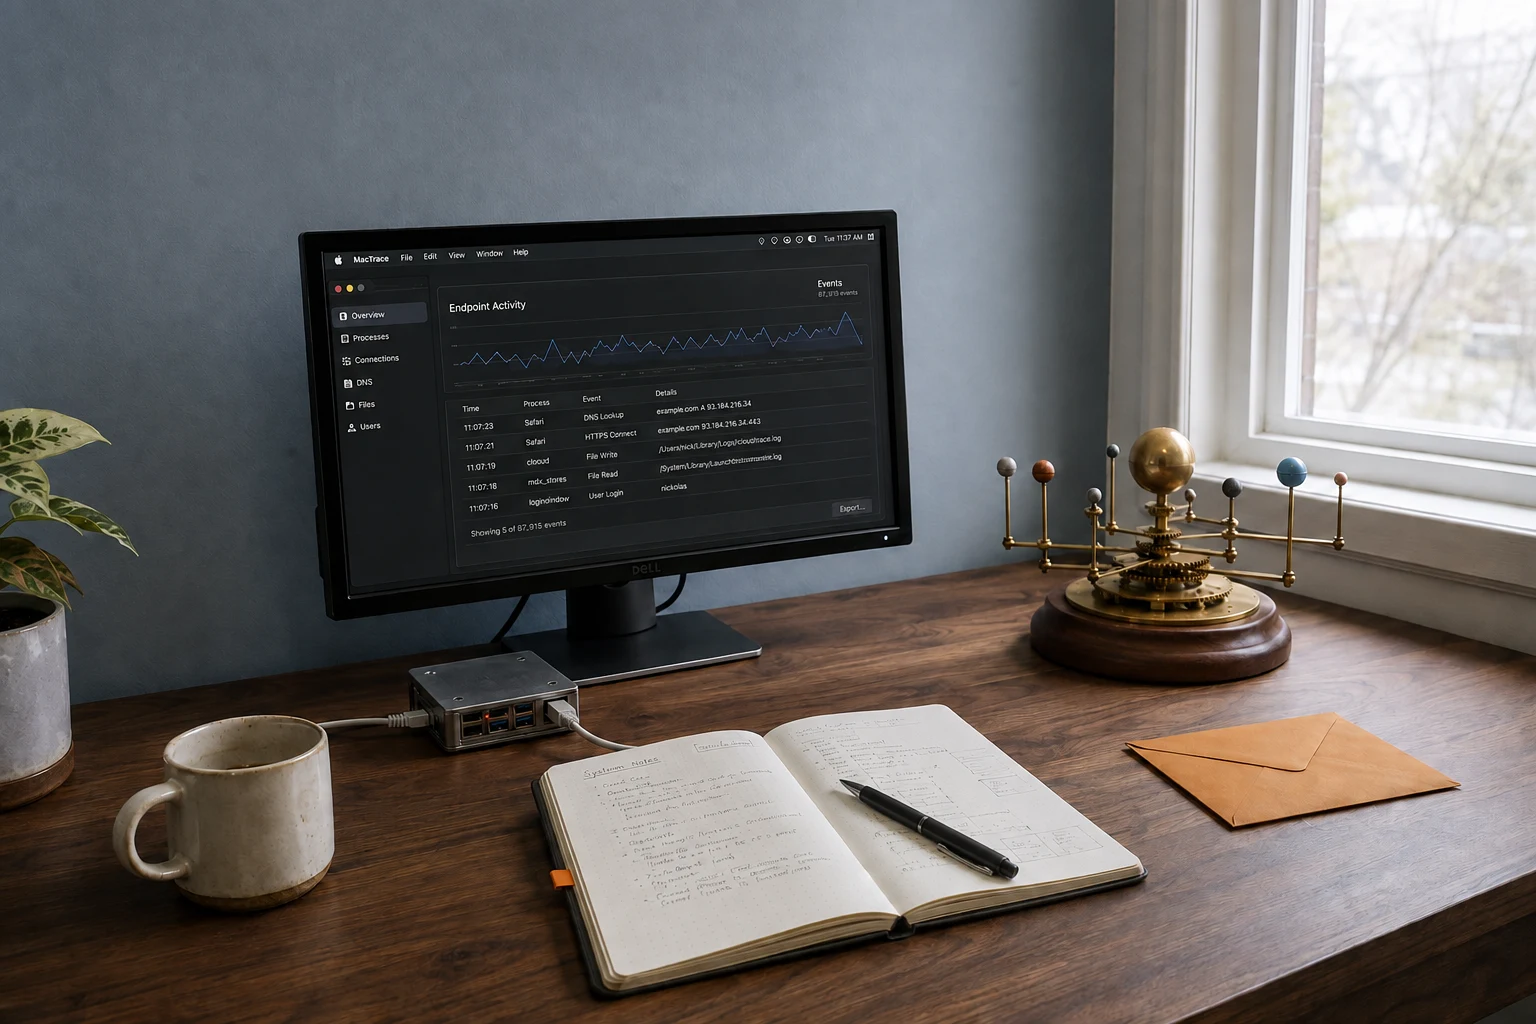
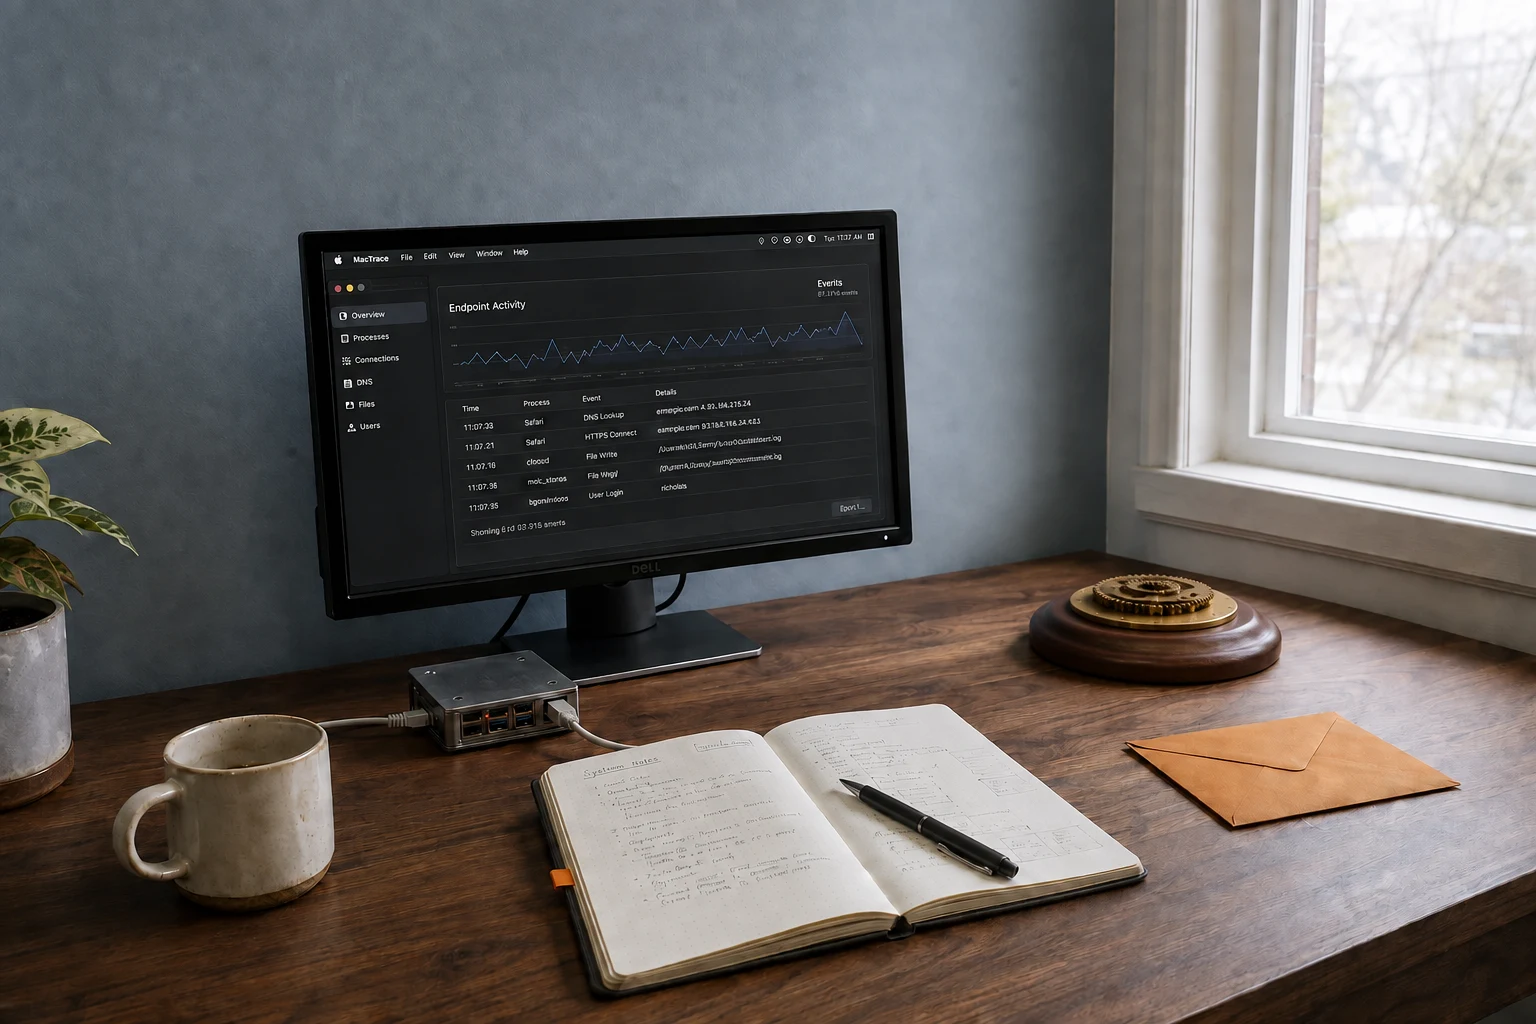
Animate desk activity and fullscreen monitor transitions

diff --git a/src/components/DeskHome.tsx b/src/components/DeskHome.tsx
@@ -1,6 +1,7 @@
-import { useEffect, useRef, useState, type ReactNode } from 'react';
+import { useCallback, useEffect, useRef, useState, type ReactNode } from 'react';
 import { ArrowUpRight, X } from 'lucide-react';
 import ThemeToggle from './ThemeToggle';
+import DeskActivity from './DeskActivity';
 import './desk.css';
 
 type Panel = 'work' | 'experience' | 'capabilities' | 'orbitlab' | 'contact';
@@ -16,19 +17,36 @@ type Props = { projects: ReactNode; experience: ReactNode; capabilities: ReactNo
 
 export default function DeskHome({ projects, experience, capabilities, orbit, contact }: Props) {
   const [active, setActive] = useState<Panel | null>(panelFromHash);
+  const [paused, setPaused] = useState(false);
+  const sceneRef = useRef<HTMLDivElement>(null);
+  const screenRef = useRef<HTMLDivElement>(null);
+  const animations = useRef<Animation[]>([]);
+  const closing = useRef(false);
   const dialogRef = useRef<HTMLDialogElement>(null);
   const triggerRef = useRef<HTMLElement | null>(null);
   const closeRef = useRef<HTMLButtonElement>(null);
 
+  const close = useCallback(async () => {
+    if (closing.current) return;
+    closing.current = true;
+    window.history.replaceState(null, '', window.location.pathname + window.location.search);
+    if (!window.matchMedia('(prefers-reduced-motion: reduce)').matches) {
+      animations.current.forEach(animation => { animation.playbackRate = -1.3; animation.play(); });
+      await Promise.all(animations.current.map(animation => animation.finished.catch(() => undefined)));
+    }
+    setActive(null);
+    closing.current = false;
+  }, []);
+
   useEffect(() => {
-    const sync = () => setActive(panelFromHash());
+    const sync = () => { const next = panelFromHash(); if (next) setActive(next); else void close(); };
     window.addEventListener('hashchange', sync);
     window.addEventListener('popstate', sync);
     return () => {
       window.removeEventListener('hashchange', sync);
       window.removeEventListener('popstate', sync);
     };
-  }, []);
+  }, [close]);
 
   useEffect(() => {
     const dialog = dialogRef.current;
@@ -36,10 +54,27 @@ export default function DeskHome({ projects, experience, capabilities, orbit, co
     if (active) {
       const previousOverflow = document.body.style.overflow;
       dialog.showModal();
+      const box = screenRef.current?.getBoundingClientRect();
+      const scene = sceneRef.current;
+      if (box && scene && !window.matchMedia('(prefers-reduced-motion: reduce)').matches) {
+        const width = window.innerWidth;
+        const height = window.innerHeight;
+        const from = `translate(${box.left}px, ${box.top}px) scale(${box.width / width}, ${box.height / height})`;
+        const sceneBox = scene.getBoundingClientRect();
+        const scale = Math.max(width / box.width, height / box.height);
+        const x = width / 2 - (box.left + box.width / 2);
+        const y = height / 2 - (box.top + box.height / 2);
+        scene.style.transformOrigin = `${box.left + box.width / 2 - sceneBox.left}px ${box.top + box.height / 2 - sceneBox.top}px`;
+        const timing = { duration: 850, easing: 'cubic-bezier(.22,.8,.25,1)', fill: 'both' as const };
+        animations.current = [
+          scene.animate([{ transform: 'translate(0,0) scale(1)' }, { transform: `translate(${x}px, ${y}px) scale(${scale})` }], timing),
+          dialog.animate([{ transform: from, opacity: 0 }, { opacity: 0, offset: .2 }, { transform: 'none', opacity: 1 }], timing),
+        ];
+      }
       dialog.scrollTop = 0;
       closeRef.current?.focus();
       document.body.style.overflow = 'hidden';
-      return () => { document.body.style.overflow = previousOverflow; dialog.close(); };
+      return () => { animations.current.forEach(animation => animation.cancel()); animations.current = []; document.body.style.overflow = previousOverflow; dialog.close(); closing.current = false; };
     }
     triggerRef.current?.focus();
   }, [active]);
@@ -49,14 +84,10 @@ export default function DeskHome({ projects, experience, capabilities, orbit, co
     window.history.pushState(null, '', `#${panel}`);
     setActive(panel);
   };
-  const close = () => {
-    window.history.replaceState(null, '', window.location.pathname + window.location.search);
-    setActive(null);
-  };
   const panels: Record<Panel, ReactNode> = { work: projects, experience, capabilities, orbitlab: orbit, contact };
 
   return (
-    <div className="desk-home">
+    <div className="desk-home" data-panel-open={Boolean(active)}>
       <header className="desk-nav">
         <a className="desk-name" href="/">Nicholas Perez</a>
         <nav aria-label="Homepage sections">
@@ -68,7 +99,11 @@ export default function DeskHome({ projects, experience, capabilities, orbit, co
         </nav>
       </header>
       <section className="poster-hero desk-scene" aria-labelledby="desk-title">
+        <div className="desk-stage" ref={sceneRef}>
         <img className="desk-photo" src="/media/desk-scene.webp" width="1536" height="1024" alt="A photographic desk scene with a monitor, home-lab computer, open notebook, brass orbital model, and orange envelope beside a sunlit window." fetchPriority="high" />
+        <DeskActivity paused={paused || Boolean(active)} />
+        <div className="desk-screen-anchor" ref={screenRef} />
+        </div>
         <div className="desk-intro">
           <h1 id="desk-title">Hi, I’m Nick.</h1>
           <p>IT systems engineer. Curious builder.</p>
@@ -81,6 +116,7 @@ export default function DeskHome({ projects, experience, capabilities, orbit, co
           <button className="desk-object desk-envelope" onClick={() => open('contact')}><span>Email me <ArrowUpRight size={16} aria-hidden="true" /></span></button>
         </div>
         <p className="desk-hint">Explore the desk, or use the navigation.</p>
+        <button className="desk-motion-toggle" aria-pressed={paused} onClick={() => setPaused(value => !value)}>{paused ? 'Resume desk motion' : 'Pause desk motion'}</button>
       </section>
       <dialog className="desk-dialog" ref={dialogRef} aria-labelledby="desk-panel-title" onCancel={(event) => { event.preventDefault(); close(); }} onClick={(event) => { if (event.target === event.currentTarget) { const box = event.currentTarget.getBoundingClientRect(); if (event.clientX < box.left || event.clientX > box.right || event.clientY < box.top || event.clientY > box.bottom) close(); } }}>
         <header className="desk-panel-bar"><span id="desk-panel-title">{active ? titles[active] : 'Explore'}</span><button ref={closeRef} onClick={close} aria-label="Close panel and return to desk"><X size={20} aria-hidden="true" /><span>Back to desk</span></button></header>

diff --git a/src/components/DeskActivity.tsx b/src/components/DeskActivity.tsx
@@ -1,0 +1,86 @@
+import { useEffect, useRef } from 'react';
+
+type Props = { paused: boolean };
+const searches = ['C++ orbital integrators', 'macOS endpoint event tracing', 'Raspberry Pi home lab', 'why is DNS always the problem'];
+
+/** Decorative, local animation. No browser automation or external requests. */
+export default function DeskActivity({ paused }: Props) {
+  const canvasRef = useRef<HTMLCanvasElement>(null);
+  const clock = useRef(0);
+  useEffect(() => {
+    const canvas = canvasRef.current;
+    const ctx = canvas?.getContext('2d');
+    if (!ctx) return;
+    let frame = 0;
+    let elapsed = clock.current;
+    let drawn = false;
+    let previous = performance.now();
+    const motion = window.matchMedia('(prefers-reduced-motion: reduce)');
+    function sphere(x: number, y: number, radius: number, color: string) {
+      if (!ctx) return;
+      const gradient = ctx.createRadialGradient(x - radius * .4, y - radius * .45, radius * .05, x, y, radius);
+      gradient.addColorStop(0, '#f0dfba'); gradient.addColorStop(.32, color); gradient.addColorStop(1, '#242019');
+      ctx.fillStyle = gradient; ctx.beginPath(); ctx.arc(x, y, radius, 0, Math.PI * 2); ctx.fill();
+    }
+    function draw(now: number) {
+      if (!ctx) return;
+      const running = !paused && !motion.matches && !document.hidden;
+      if (running) elapsed += Math.min(now - previous, 50);
+      previous = now;
+      if (!running && drawn) { frame = requestAnimationFrame(draw); return; }
+      drawn = true;
+      clock.current = elapsed;
+      ctx.clearRect(0, 0, 1536, 1024);
+      // Match the photographed display's four corners, keeping its bezel visible.
+      ctx.save(); ctx.beginPath(); ctx.moveTo(325, 251); ctx.lineTo(879, 228); ctx.lineTo(897, 537); ctx.lineTo(349, 593); ctx.closePath(); ctx.clip();
+      ctx.fillStyle = '#151d25'; ctx.fill();
+      ctx.transform(.938, -.058, .074, 1.08, 325, 251);
+      ctx.fillStyle = '#29333b'; ctx.fillRect(0, 0, 600, 22);
+      ['#d87966', '#d6b568', '#8ca782'].forEach((color, i) => { ctx.fillStyle = color; ctx.beginPath(); ctx.arc(12 + i * 14, 10, 4, 0, 7); ctx.fill(); });
+      const scene = Math.floor(elapsed / 10000) % 3;
+      const phase = elapsed % 10000;
+      ctx.font = '12px monospace'; ctx.fillStyle = '#b8c2cc'; ctx.fillText(['Browser — notes & research', 'Editor — orbitlab.cpp', 'Terminal — home lab'][scene], 80, 14);
+      if (scene === 0) {
+        ctx.fillStyle = '#dbe3eb'; ctx.font = '25px sans-serif'; ctx.fillText('Google', 248, 82);
+        ctx.fillStyle = '#303b46'; ctx.fillRect(65, 107, 465, 32);
+        ctx.fillStyle = '#e3e6ea'; ctx.font = '14px monospace';
+        const query = searches[Math.floor(elapsed / 30000) % searches.length];
+        ctx.fillText(query.slice(0, Math.floor(phase / 85)), 80, 129);
+        if (phase > 3500) {
+          ['Documentation & examples', 'A closer look at the implementation', 'Notes from the workbench'].forEach((line, i) => {
+            ctx.fillStyle = '#90bde4'; ctx.fillText(line, 70, 174 + i * 48);
+            ctx.fillStyle = '#8a9ba7'; ctx.font = '11px monospace'; ctx.fillText('Read, experiment, build. Repeat.', 70, 192 + i * 48); ctx.font = '14px monospace';
+          });
+        }
+      } else if (scene === 1) {
+        ctx.fillStyle = '#1d2832'; ctx.fillRect(0, 22, 112, 310); ctx.fillStyle = '#9badbd'; ctx.font = '12px monospace';
+        ['EXPLORER', 'src/', '  main.cpp', '  orbit.cpp', '  solver.cpp', 'tests/'].forEach((line, i) => ctx.fillText(line, 12, 49 + i * 23));
+        const code = ['// One small experiment at a time.', '#include <vector>', '', 'void step(System& world, double dt) {', '  for (auto& body : world.bodies) {', '    auto force = gravity(body, world);', '    body.velocity += force * dt;', '    body.position += body.velocity * dt;', '  }', '}', '', '// Next: compare energy drift'];
+        const typed = Math.floor(phase / 20); let remaining = typed;
+        code.forEach((line, i) => { ctx.fillStyle = '#647889'; ctx.fillText(String(i + 1), 124, 50 + i * 21); ctx.fillStyle = line.startsWith('//') ? '#859d8b' : '#d1bf98'; ctx.fillText(line.slice(0, Math.max(0, remaining)), 150, 50 + i * 21); remaining -= line.length; });
+      } else {
+        ctx.font = '14px monospace';
+        ['$ ssh workbench', 'Connected to home-lab.local', '$ ./run-checks', '✓ identity services online', '✓ event collector healthy', '✓ backups verified', '', '$ cmake --build build', '[100%] Built target orbitlab', 'All checks passed.'].slice(0, 1 + Math.floor(phase / 720)).forEach((line, i) => { ctx.fillStyle = line.startsWith('$') ? '#d8c49b' : '#91baa5'; ctx.fillText(line, 24, 52 + i * 24); });
+      }
+      const cursorX = 310 + Math.sin(elapsed / 2400) * 175;
+      const cursorY = 160 + Math.sin(elapsed / 1750) * 90;
+      ctx.fillStyle = '#fff'; ctx.strokeStyle = '#17222b'; ctx.lineWidth = 1.4;
+      ctx.beginPath(); ctx.moveTo(cursorX, cursorY); ctx.lineTo(cursorX + 3, cursorY + 18); ctx.lineTo(cursorX + 8, cursorY + 12); ctx.lineTo(cursorX + 15, cursorY + 11); ctx.closePath(); ctx.fill(); ctx.stroke();
+      ctx.restore();
+      // Brass arms orbit around a fixed spindle; depth changes their overlap.
+      const planets = [
+        { radius: 52, size: 7, color: '#918676', speed: 1.1, offset: 0 },
+        { radius: 87, size: 10, color: '#aa7242', speed: .75, offset: 2 },
+        { radius: 131, size: 14, color: '#547e93', speed: .48, offset: 4 },
+        { radius: 174, size: 8, color: '#a77b65', speed: .3, offset: 1 },
+      ].map(p => { const angle = elapsed / 7000 * p.speed + p.offset; return { ...p, x: 1160 + Math.cos(angle) * p.radius, y: 540 + Math.sin(angle) * p.radius * .23 }; }).sort((a, b) => a.y - b.y);
+      ctx.strokeStyle = '#a98a46'; ctx.lineWidth = 5; ctx.beginPath(); ctx.moveTo(1160, 587); ctx.lineTo(1160, 462); ctx.stroke();
+      planets.forEach(p => { ctx.strokeStyle = '#806633'; ctx.lineWidth = 4; ctx.beginPath(); ctx.moveTo(1160, 553); ctx.lineTo(p.x, p.y + 20); ctx.lineTo(p.x, p.y - 55); ctx.stroke(); ctx.strokeStyle = '#d6ba73'; ctx.lineWidth = 1; ctx.stroke(); sphere(p.x, p.y - 55, p.size, p.color); });
+      sphere(1160, 459, 31, '#b6934c');
+      frame = requestAnimationFrame(draw);
+    }
+    frame = requestAnimationFrame(draw);
+    return () => cancelAnimationFrame(frame);
+  }, [paused]);
+  return <canvas ref={canvasRef} className="desk-activity" width={1536} height={1024} aria-hidden="true" />;
+}

diff --git a/tests/e2e/site.spec.ts b/tests/e2e/site.spec.ts
@@ -16,6 +16,10 @@ test('desk objects open accessible panels and restore keyboard focus', async ({ 
   const panel = page.getByRole('dialog', { name: 'Projects', exact: true })
   await expect(panel).toBeVisible()
   await expect(panel.getByText('MacTrace', { exact: true }).first()).toBeVisible()
+  await panel.evaluate(element => Promise.all(element.getAnimations().map(animation => animation.finished)))
+  const bounds = await panel.boundingBox()
+  expect(bounds?.width).toBe(1440)
+  expect(bounds?.height).toBe(1000)
   const accessibility = await new AxeBuilder({ page }).withTags(['wcag2a', 'wcag2aa', 'wcag21aa']).analyze()
   expect(accessibility.violations).toEqual([])
   await page.keyboard.press('Escape')
@@ -139,4 +143,35 @@ test('demo videos remain network-idle until the visitor presses play', async ({ 
 
   expect(mediaRequests).toEqual([])
   expect(await videos.evaluateAll((elements) => elements.map((video) => video.preload))).toEqual(['none', 'none', 'none'])
+})
+
+
+test('desk motion pauses and reduced motion skips the camera flight', async ({ page }) => {
+  await page.goto('/')
+  await page.getByRole('button', { name: 'Pause desk motion' }).click()
+  const canvas = page.locator('.desk-activity')
+  const still = await canvas.evaluate((element: HTMLCanvasElement) => element.toDataURL())
+  await page.waitForTimeout(200)
+  expect(await canvas.evaluate((element: HTMLCanvasElement) => element.toDataURL())).toBe(still)
+  await page.getByRole('button', { name: 'Resume desk motion' }).click()
+  await expect.poll(() => canvas.evaluate((element: HTMLCanvasElement) => element.toDataURL())).not.toBe(still)
+  await page.emulateMedia({ reducedMotion: 'reduce' })
+  await page.locator('.desk-monitor').click()
+  const dialog = page.getByRole('dialog')
+  await expect(dialog).toBeVisible()
+  expect(await dialog.evaluate(element => element.getAnimations().length)).toBe(0)
+  await page.keyboard.press('Escape')
+  await expect(dialog).not.toBeVisible()
+})
+
+test('camera flight can reverse before it finishes and browser Back returns to desk', async ({ page }) => {
+  await page.goto('/')
+  await page.locator('.desk-monitor').click()
+  await page.keyboard.press('Escape')
+  await expect(page.getByRole('dialog')).not.toBeVisible()
+  await page.locator('.desk-notebook').click()
+  await expect(page.getByRole('dialog', { name: 'Experience', exact: true })).toBeVisible()
+  await page.goBack()
+  await expect(page.getByRole('dialog')).not.toBeVisible()
+  await expect(page.locator('.desk-notebook')).toBeFocused()
 })

diff --git a/src/components/desk.css b/src/components/desk.css
@@ -67,3 +67,28 @@
   .desk-orbit-panel { padding: 24px 16px; }
 }
 @media (prefers-reduced-motion: reduce) { .desk-object > span { transition: none; } }
+
+/* The image and its living layers share a coordinate system on every device. */
+.desk-stage { position: absolute; inset: 0; }
+.desk-activity { position: absolute; inset: 0; width: 100%; height: 100%; pointer-events: none; }
+.desk-screen-anchor { position: absolute; left: 21.2%; top: 23%; width: 37%; height: 34%; pointer-events: none; }
+.desk-motion-toggle { position: absolute; bottom: 2%; right: 3.2%; min-height: 44px; padding: 8px 12px; color: white; background: #26343b; border: 1px solid #b9c1c5; cursor: pointer; font-size: 12px; }
+.desk-dialog { position: fixed; inset: 0; width: 100%; max-width: none; height: 100dvh; max-height: none; margin: 0; border: 0; border-radius: 0; transform-origin: 0 0; }
+.desk-dialog::backdrop { background: transparent; }
+.desk-dialog .page-width { max-width: 1200px; margin-inline: auto; }
+.desk-orbit-panel { max-width: 1200px; margin-inline: auto; }
+@media (max-width: 700px) {
+  .desk-stage { position: relative; inset: auto; order: 1; width: 100%; aspect-ratio: 3 / 2; }
+  .desk-stage .desk-photo { position: absolute; inset: 0; height: 100%; }
+  .desk-motion-toggle { position: static; order: 4; align-self: flex-start; margin: 0 22px 22px; }
+  .desk-dialog { width: 100%; max-height: none; border-radius: 0; }
+}
+.desk-nav, .desk-intro, .desk-objects, .desk-hint, .desk-motion-toggle { transition: opacity 180ms ease; }
+.desk-home[data-panel-open="true"] .desk-nav,
+.desk-home[data-panel-open="true"] .desk-intro,
+.desk-home[data-panel-open="true"] .desk-objects,
+.desk-home[data-panel-open="true"] .desk-hint,
+.desk-home[data-panel-open="true"] .desk-motion-toggle { opacity: 0; }
+@media (prefers-reduced-motion: reduce) {
+  .desk-nav, .desk-intro, .desk-objects, .desk-hint, .desk-motion-toggle { transition: none; }
+}

diff --git a/src/test/setup.ts b/src/test/setup.ts
@@ -2,6 +2,9 @@ import '@testing-library/jest-dom/vitest'
 import { cleanup } from '@testing-library/react'
 import { afterEach, vi } from 'vitest'
 
+// Canvas visuals are verified in Chromium; jsdom has no drawing context.
+vi.spyOn(HTMLCanvasElement.prototype, 'getContext').mockReturnValue(null)
+
 const storage = new Map<string, string>()
 
 Object.defineProperty(window, 'localStorage', {
